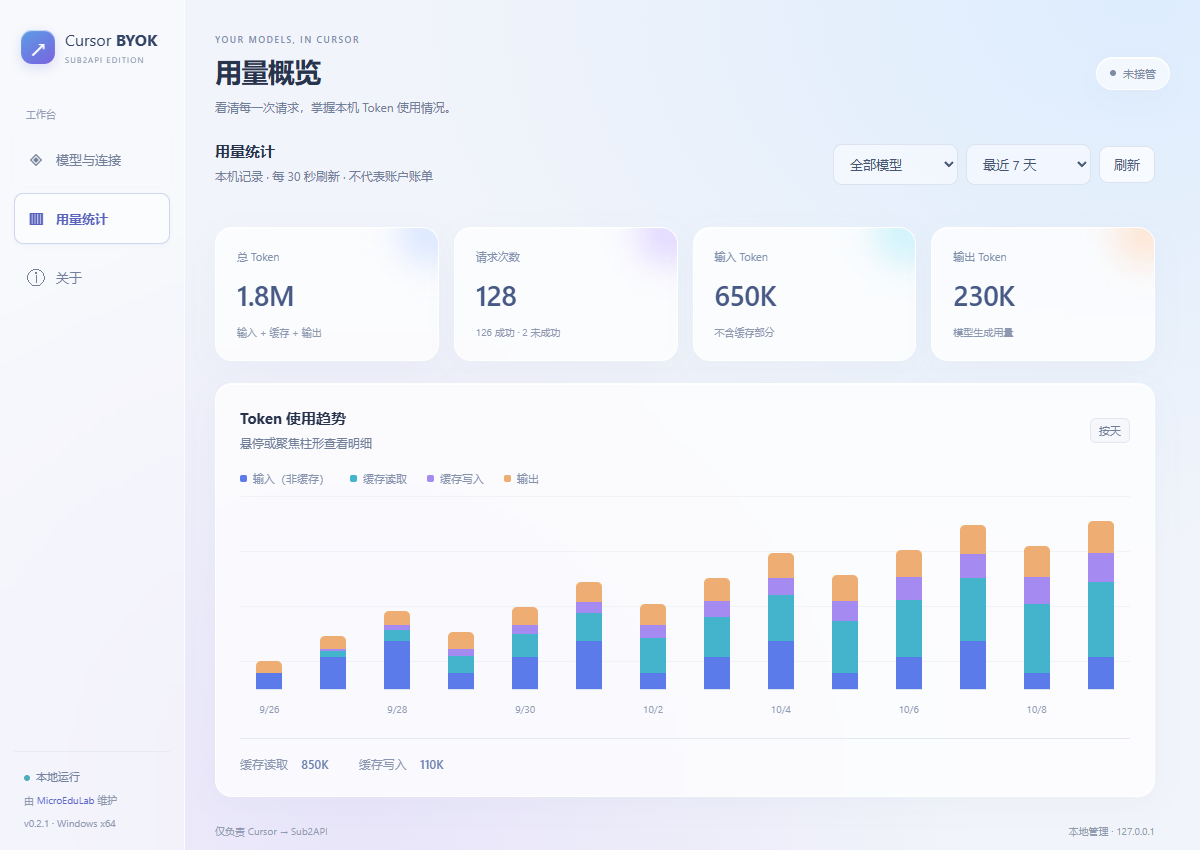
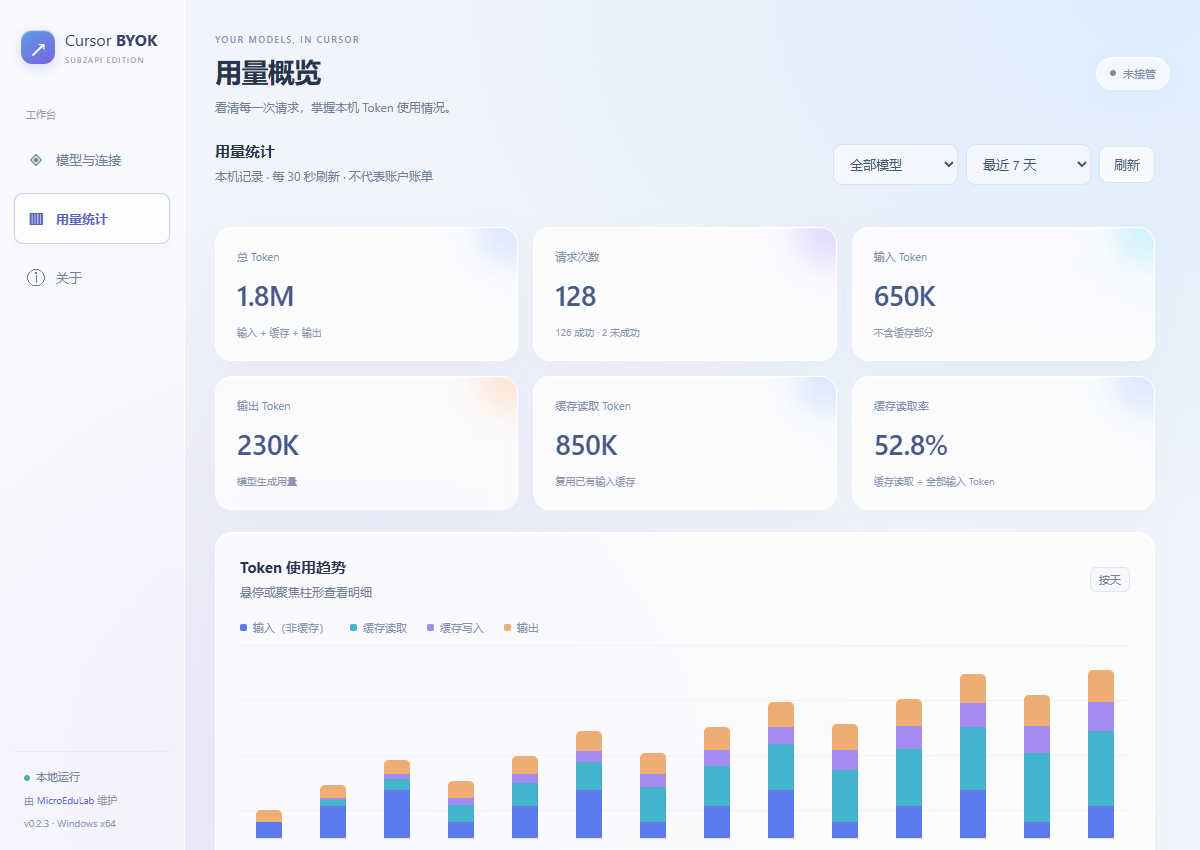
feat: add cache usage metrics and close to tray

diff --git a/apps/desktop/src/App.tsx b/apps/desktop/src/App.tsx
@@ -64,12 +64,12 @@ function Controller() {
   }); };
   const visible = models.filter(m => `${m.display_name} ${m.model_id}`.toLowerCase().includes(search.toLowerCase()));
   return <div className="app">
-    <aside className="sidebar"><div className="brand"><span className="brand-mark">↗</span><div>Cursor <strong>BYOK</strong><small>SUB2API EDITION</small></div></div><div className="nav-label">工作台</div><nav>{([["models", "◈", "模型与连接"], ["usage", "▥", "用量统计"], ["about", "ⓘ", "关于"]] as const).map(([id, icon, label]) => <button key={id} className={page === id ? "active" : ""} onClick={() => setPage(id)}><span aria-hidden="true">{icon}</span>{label}</button>)}</nav><div className="sidebar-bottom"><span className="local-dot" />本地运行<small>由 <a href="https://microedulab.com/">MicroEduLab</a> 维护</small><small>v0.2.2 · Windows x64</small></div></aside>
+    <aside className="sidebar"><div className="brand"><span className="brand-mark">↗</span><div>Cursor <strong>BYOK</strong><small>SUB2API EDITION</small></div></div><div className="nav-label">工作台</div><nav>{([["models", "◈", "模型与连接"], ["usage", "▥", "用量统计"], ["about", "ⓘ", "关于"]] as const).map(([id, icon, label]) => <button key={id} className={page === id ? "active" : ""} onClick={() => setPage(id)}><span aria-hidden="true">{icon}</span>{label}</button>)}</nav><div className="sidebar-bottom"><span className="local-dot" />本地运行<small>由 <a href="https://microedulab.com/">MicroEduLab</a> 维护</small><small>v0.2.3 · Windows x64</small></div></aside>
     <div className="workspace"><header><div><span className="eyebrow">YOUR MODELS, IN CURSOR</span><h1>{page === "models" ? "模型与连接" : page === "usage" ? "用量概览" : "关于应用"}</h1><p className="page-description">{page === "models" ? "连接你的模型，让 Cursor 保持熟悉的工作方式。" : page === "usage" ? "看清每一次请求，掌握本机 Token 使用情况。" : "本地运行，配置由你掌控。"}</p></div><span className={`status ${status?.integration ?? ""}`}><i />{status ? statusLabels[status.integration] : "正在读取"}</span></header>
     <main ref={mainPanel}>
       {error && <div className="alert dismissible error" role="alert"><span>{error}</span><button aria-label="关闭错误提示" onClick={() => setError("")}>×</button></div>}{notice && <div className="alert dismissible" role="status"><span>{notice}</span><button aria-label="关闭操作提示" onClick={() => setNotice("")}>×</button></div>}
       {status?.recovery_error && <div className="alert error">{status.recovery_error}</div>}{!!status?.warnings.length && <div className="alert">已保留你修改的设置：{status.warnings.join("、")}</div>}
-      {page === "models" && <section className={`card takeover ${status?.integration === "enabled" ? "is-active" : ""}`}><div className="takeover-copy"><span className="takeover-icon">⇄</span><div><div className="eyebrow">CONNECTION CONTROL</div><h2>Cursor 可逆接管</h2><p>{status?.restart_required ? "请先保存工作并完全退出 Cursor，再切换接管状态。" : "关闭和退出会恢复 Cursor 设置，专属证书保持安装。"}</p></div></div><div className="row-actions"><button disabled={busy} onClick={() => void perform(refresh)}>刷新状态</button>{status?.integration === "recovery_required" || status?.integration === "degraded" ? <button className="primary" disabled={busy} onClick={() => void perform(async () => { await request("harness/cursor/recover", "POST"); })}>恢复配置</button> : <button className="primary" disabled={busy || !status || (status.integration === "disabled" && (!models.length || !connection.has_api_key))} onClick={toggleTakeover}>{busy ? "正在处理…" : status?.integration === "enabled" ? "关闭并恢复" : "开启接管"}</button>}</div><div className="takeover-details"><span><i className={connection.has_api_key ? "ready" : ""} />连接{connection.has_api_key ? "已配置" : "待配置"}</span><span><i className={models.length ? "ready" : ""} />{models.length} 个模型</span><span><i className={status?.ca === "ready" ? "ready" : ""} />{status?.ca === "ready" ? "证书已就绪" : status?.certificate_consent ? "证书待安装 · 已授权" : "证书待授权"}</span></div></section>}
+      {page === "models" && <section className={`card takeover ${status?.integration === "enabled" ? "is-active" : ""}`}><div className="takeover-copy"><span className="takeover-icon">⇄</span><div><div className="eyebrow">CONNECTION CONTROL</div><h2>Cursor 可逆接管</h2><p>{status?.restart_required ? "请先保存工作并完全退出 Cursor，再切换接管状态。" : "关窗后在托盘继续运行；关闭接管或从托盘退出时恢复设置。"}</p></div></div><div className="row-actions"><button disabled={busy} onClick={() => void perform(refresh)}>刷新状态</button>{status?.integration === "recovery_required" || status?.integration === "degraded" ? <button className="primary" disabled={busy} onClick={() => void perform(async () => { await request("harness/cursor/recover", "POST"); })}>恢复配置</button> : <button className="primary" disabled={busy || !status || (status.integration === "disabled" && (!models.length || !connection.has_api_key))} onClick={toggleTakeover}>{busy ? "正在处理…" : status?.integration === "enabled" ? "关闭并恢复" : "开启接管"}</button>}</div><div className="takeover-details"><span><i className={connection.has_api_key ? "ready" : ""} />连接{connection.has_api_key ? "已配置" : "待配置"}</span><span><i className={models.length ? "ready" : ""} />{models.length} 个模型</span><span><i className={status?.ca === "ready" ? "ready" : ""} />{status?.ca === "ready" ? "证书已就绪" : status?.certificate_consent ? "证书待安装 · 已授权" : "证书待授权"}</span></div></section>}
       {page === "models" && <>
         <section className="card connection"><div className="section-heading"><div><h2>Sub2API 连接</h2><p className="hint">一个连接，共享给所有模型</p></div><div className="row-actions"><span className={`badge ${connection.has_api_key ? "connected" : ""}`}>{connection.has_api_key ? "已保存连接" : "待配置"}</span>{connection.has_api_key && <button className="text-button" disabled={locked} aria-expanded={editingConnection} onClick={() => setEditingConnection(!editingConnection)}>{editingConnection ? "收起" : "编辑连接"}</button>}</div></div>
           {(!connection.has_api_key || editingConnection) ? <form onSubmit={saveConnection}><div className="fields"><label>Base URL<input type="url" required placeholder="https://your-sub2api.example/v1" value={base} disabled={locked} onChange={e => setBase(e.target.value)} /></label><label>API Key<input type="password" autoComplete="off" spellCheck={false} placeholder={connection.has_api_key ? "已加密保存 · 留空保持原 Key" : "输入专用 API Key"} value={key} required={!connection.has_api_key} disabled={locked} onChange={e => setKey(e.target.value)} /></label></div><div className="form-footer"><span>{locked && !busy ? "接管期间配置已锁定，请先关闭并恢复后编辑。" : "Key 由当前 Windows 用户加密保存在本机。"}</span><button disabled={locked} type="submit">保存连接</button></div></form> : <div className="connection-summary"><span className="connection-url">{connection.base_url}</span><span>API Key 已加密保存</span></div>}
@@ -84,7 +84,7 @@ function Controller() {
         </section>
       </>}
       {page === "usage" && <Usage models={models} />}
-      {page === "about" && <><section className="card about"><span className="eyebrow">CURSOR → SUB2API</span><h2>Cursor Sub2API BYOK <span className="badge">v0.2.2</span></h2><p>Windows x64 便携控制器。保留 Cursor 原生登录、Agent 与工具。</p><div className="about-links"><a href="https://microedulab.com/" rel="noreferrer">MicroEduLab ↗</a><a href="https://github.com/dude1wudv/cursor-sub2api-byok" rel="noreferrer">开发仓库 ↗</a><a href="https://github.com/leookun/cursor-byok" rel="noreferrer">上游 leookun/cursor-byok ↗</a></div><p className="hint">MIT · Copyright (c) 2026 leookun<br />数据使用 Windows CurrentUser DPAPI；其他用户或机器无法解密。</p></section><section className="card"><h2>目标路径与证书</h2><dl><dt>Cursor settings</dt><dd>{status?.settings_path || "—"}</dd><dt>本地代理</dt><dd>{status?.proxy_url || "未运行"}</dd><dt>CurrentUser Root CA</dt><dd>{status?.ca || "—"}</dd><dt>CA SHA-256</dt><dd>{status?.ca_sha256 || "首次开启接管时生成"}</dd></dl><div className="row-actions"><button disabled={busy || status?.integration !== "disabled"} onClick={() =>  { enableAfterSetup.current = false; setCertificateSetup(true); }}>查看使用说明 / 安装证书</button><button className="danger" disabled={busy || !status?.certificate_consent} onClick={() => void perform(async () => { await request("harness/cursor/ca/uninstall", "POST"); setNotice("专属证书已卸载，Cursor 设置已恢复。可退出后移除便携程序；模型配置和统计仍保留在数据目录。"); })}>卸载证书并恢复</button></div><p className="hint">日常关闭和退出保留证书；卸载时按同意记录精确清理。崩溃后重新打开程序恢复，或使用同一路径参数运行 --restore。</p></section></>}
+      {page === "about" && <><section className="card about"><span className="eyebrow">CURSOR → SUB2API</span><h2>Cursor Sub2API BYOK <span className="badge">v0.2.3</span></h2><p>Windows x64 便携控制器。保留 Cursor 原生登录、Agent 与工具。</p><div className="about-links"><a href="https://microedulab.com/" rel="noreferrer">MicroEduLab ↗</a><a href="https://github.com/dude1wudv/cursor-sub2api-byok" rel="noreferrer">开发仓库 ↗</a><a href="https://github.com/leookun/cursor-byok" rel="noreferrer">上游 leookun/cursor-byok ↗</a></div><p className="hint">MIT · Copyright (c) 2026 leookun<br />数据使用 Windows CurrentUser DPAPI；其他用户或机器无法解密。</p></section><section className="card"><h2>目标路径与证书</h2><dl><dt>Cursor settings</dt><dd>{status?.settings_path || "—"}</dd><dt>本地代理</dt><dd>{status?.proxy_url || "未运行"}</dd><dt>CurrentUser Root CA</dt><dd>{status?.ca || "—"}</dd><dt>CA SHA-256</dt><dd>{status?.ca_sha256 || "首次开启接管时生成"}</dd></dl><div className="row-actions"><button disabled={busy || status?.integration !== "disabled"} onClick={() =>  { enableAfterSetup.current = false; setCertificateSetup(true); }}>查看使用说明 / 安装证书</button><button className="danger" disabled={busy || !status?.certificate_consent} onClick={() => void perform(async () => { await request("harness/cursor/ca/uninstall", "POST"); setNotice("专属证书已卸载，Cursor 设置已恢复。可退出后移除便携程序；模型配置和统计仍保留在数据目录。"); })}>卸载证书并恢复</button></div><p className="hint">关窗后继续接管，托盘“退出并恢复”会恢复设置并保留证书；卸载时按同意记录精确清理。崩溃后重新打开程序恢复，或使用同一路径参数运行 --restore。</p></section></>}
       <footer><span>仅负责 Cursor → Sub2API</span><span>本地管理 · 127.0.0.1</span></footer>
     </main></div>
     {certificateSetup && <CertificateSetup cancel={() => { enableAfterSetup.current = false; setCertificateSetup(false); }} done={async () => {

diff --git a/apps/desktop/src/Usage.tsx b/apps/desktop/src/Usage.tsx
@@ -29,6 +29,8 @@ export function Usage({ models }: { models: Model[] }) {
     return () => { controller.abort(); window.clearInterval(timer); };
   }, [refresh]);
   const m = overview?.metrics;
+  const totalInput = m ? m.input_tokens + m.cache_read_tokens + m.cache_write_tokens : 0;
+  const cacheReadRate = m && totalInput > 0 ? `${(m.cache_read_tokens / totalInput * 100).toFixed(1)}%` : "—";
   const data = overview?.token_usage_series ?? [];
   const total = (b: UsageBucket) => series.reduce((n, [key]) => n + b[key], 0);
   const max = Math.max(1, ...data.map(total));
@@ -37,7 +39,8 @@ export function Usage({ models }: { models: Model[] }) {
     {error && <div className="alert error" role="alert">{error}</div>}
     <div className="metric-grid">{[
       ["总 Token", m?.token_usage, "输入 + 缓存 + 输出"], ["请求次数", m?.llm_calls, `${m?.successful_calls ?? 0} 成功 · ${m?.failed_calls ?? 0} 未成功`], ["输入 Token", m?.input_tokens, "不含缓存部分"], ["输出 Token", m?.output_tokens, "模型生成用量"],
-    ].map(([label, value, note]) => <div className="metric card" key={String(label)}><span>{label}</span><strong title={typeof value === "number" ? value.toLocaleString() : ""}>{typeof value === "number" ? number(value) : "—"}</strong><small>{note}</small></div>)}</div>
+      ["缓存读取 Token", m?.cache_read_tokens, "复用已有输入缓存"], ["缓存读取率", cacheReadRate, "缓存读取 ÷ 全部输入 Token"],
+    ].map(([label, value, note]) => <div className="metric card" key={String(label)}><span>{label}</span><strong title={typeof value === "number" ? value.toLocaleString() : ""}>{typeof value === "number" ? number(value) : value ?? "—"}</strong><small>{note}</small></div>)}</div>
     <section className="card chart-card"><div className="section-heading"><div><h2>Token 使用趋势</h2><p className="hint">悬停或聚焦柱形查看明细</p></div><span className="badge">{overview?.token_usage_granularity === "day" ? "按天" : "按小时"}</span></div>
       <div className="legend">{series.map(([, label, color]) => <span key={label}><i style={{ background: color }} />{label}</span>)}</div>
       <div className="chart" aria-label="Token 用量柱形图">{data.map((b, index) => {
@@ -47,7 +50,7 @@ export function Usage({ models }: { models: Model[] }) {
         return <div className="chart-column" key={b.bucket_start_ms} tabIndex={0} aria-label={detail} title={detail}><div className="bar-track"><div className="bar-stack" style={{ height: `${total(b) / max * 100}%` }}>{series.map(([key, , color]) => b[key] > 0 && <i key={key} style={{ background: color, flexGrow: b[key] }} />)}</div></div><span>{index % Math.max(1, Math.ceil(data.length / 12)) === 0 ? caption : ""}</span></div>;
       })}</div>
       {!loading && data.every(b => total(b) === 0) && <p className="chart-empty">这个时间范围暂无 Token 用量，开始使用后将在这里显示。</p>}
-      <div className="cache-summary"><span>缓存读取 <strong>{m ? number(m.cache_read_tokens) : "—"}</strong></span><span>缓存写入 <strong>{m ? number(m.cache_write_tokens) : "—"}</strong></span></div>
+      <div className="cache-summary"><span>缓存写入 <strong>{m ? number(m.cache_write_tokens) : "—"}</strong></span><span>读取率按当前筛选汇总计算，全部输入包含缓存读取与写入，不含输出。</span></div>
     </section>
   </>;
 }

diff --git a/apps/desktop/src/controller.scss b/apps/desktop/src/controller.scss
@@ -123,7 +123,7 @@ input[type=checkbox] { width: 14px; height: 14px; flex-shrink: 0; margin: 0; acc
 .discovery-row label { flex-direction: row; align-items: center; overflow-wrap: anywhere; }
 .discovery-row select { width: 175px; flex-shrink: 0; font-size: 11px; }
 .discovery-row small { display: block; margin-top: 3px; color: #8494c0; }
-.metric-grid { display: grid; grid-template-columns: repeat(4, minmax(0, 1fr)); gap: 15px; }
+.metric-grid { display: grid; grid-template-columns: repeat(3, minmax(0, 1fr)); gap: 15px; }
 .metric { position: relative; display: flex; flex-direction: column; gap: 12px; padding: 21px; overflow: hidden; }
 .metric::after { content: ""; position: absolute; width: 65px; height: 65px; top: -28px; right: -25px; border-radius: 50%; background: #dbe6ff; filter: blur(16px); }
 .metric:nth-child(2)::after { background: #e2d9ff; }

diff --git a/apps/desktop/src-tauri/src/desktop.rs b/apps/desktop/src-tauri/src/desktop.rs
@@ -191,7 +191,9 @@ pub fn run() -> ExitCode {
         .on_window_event(|window, event| {
             if let WindowEvent::CloseRequested { api, .. } = event {
                 api.prevent_close();
-                window.app_handle().exit(0);
+                if let Err(error) = window.hide() {
+                    tracing::warn!(%error, "could not hide controller window to tray");
+                }
             }
         })
         .build(tauri::generate_context!());

diff --git a/apps/desktop/src-tauri/src/tray.rs b/apps/desktop/src-tauri/src/tray.rs
@@ -21,7 +21,7 @@ pub fn create(app: &mut App) -> tauri::Result<()> {
         None::<&str>,
     )?;
     let separator = PredefinedMenuItem::separator(app)?;
-    let quit = MenuItem::with_id(app, QUIT_MENU_ID, "退出", true, None::<&str>)?;
+    let quit = MenuItem::with_id(app, QUIT_MENU_ID, "退出并恢复", true, None::<&str>)?;
     let menu = Menu::with_items(app, &[&open, &separator, &quit])?;
 
     TrayIconBuilder::with_id("main")

diff --git a/README.md b/README.md
@@ -31,7 +31,7 @@ Windows x64 便携控制器，只负责 Cursor → Sub2API。由 **[MicroEduLab]
 2. 完全退出 Cursor，打开 `Cursor-Sub2API-BYOK.exe`，阅读并勾选首次使用说明，安装当前用户专属证书。
 3. 保存 Sub2API HTTPS 根地址或 `/v1` 与专用 API Key，点击“获取模型列表”勾选添加。按模型名称预选 Responses/Claude Messages，添加前可调整协议。编辑模型卡片设置可选强度与默认值；只勾选上游支持的档位。
 4. 完全退出 Cursor，点击“开启接管”，再手动打开 Cursor 并使用原生登录。若尚未授权，完成首次说明与安装后会继续开启；已有授权不会重复弹出应用协议。
-5. 完全退出 Cursor 后点击“关闭并恢复”，或关闭本程序窗口。窗口 × 会恢复后退出；Cursor 仍运行或恢复失败时阻止退出。
+5. 窗口 × 会隐藏到系统托盘，继续保持接管；点击托盘图标可重新打开控制台。完全退出 Cursor 后点击“关闭并恢复”，或在托盘菜单选择“退出并恢复”。显式退出时，Cursor 仍运行或恢复失败会阻止退出并重新显示窗口。
 
 本程序不修改 Cursor 安装文件、hosts、系统代理或账号数据库，不伪造会员资格。官方账号/计费流量继续转发到 Cursor。原生工具、MCP、Skills、检查点、取消和 compaction 仍使用上游实现。
 
@@ -53,7 +53,7 @@ Windows x64 便携控制器，只负责 Cursor → Sub2API。由 **[MicroEduLab]
 
 `--cursor-user-data-dir` 指向用户数据根，实际操作其 `User\settings.json`。路径须为绝对路径且不能经过 reparse point；GUI 与恢复命令全局单实例互斥。
 
-首次同意使用说明后生成专属 CA，只安装到 CurrentUser Root。Windows 首次安装和最终删除时可能要求确认；核对名称为 `Cursor Sub2API BYOK Local CA` 后点击“是”。日常关闭、窗口退出、崩溃恢复与 `--restore` 恢复 settings 并停止代理，**保留已同意持续安装的证书**，因此无需反复确认。v0.1.0 遗留事务仍按当时记录恢复临时信任。卸载前请进入“关于 → 卸载证书并恢复”，成功后再删除便携程序；模型配置和统计保留。证书按 DPAPI 同意记录的完整 DER 精确删除，失败保留记录供重试；不要提前删除数据目录。原 JSONC 的 BOM、CRLF、注释及无关字段保留。用户在接管期间改成第三值的管理项保留并提示，无法确认归属时保留 journal 并进入 `recovery_required`。
+首次同意使用说明后生成专属 CA，只安装到 CurrentUser Root。Windows 首次安装和最终删除时可能要求确认；核对名称为 `Cursor Sub2API BYOK Local CA` 后点击“是”。关闭接管、托盘退出、崩溃恢复与 `--restore` 恢复 settings 并停止代理，**保留已同意持续安装的证书**，因此无需反复确认。v0.1.0 遗留事务仍按当时记录恢复临时信任。卸载前请进入“关于 → 卸载证书并恢复”，成功后再删除便携程序；模型配置和统计保留。证书按 DPAPI 同意记录的完整 DER 精确删除，失败保留记录供重试；不要提前删除数据目录。原 JSONC 的 BOM、CRLF、注释及无关字段保留。用户在接管期间改成第三值的管理项保留并提示，无法确认归属时保留 journal 并进入 `recovery_required`。
 
 崩溃后使用相同参数重新启动或执行 `--restore`。恢复命令不启动代理或网络客户端，成功返回 0，冲突返回非零。不要删除 `takeover-journal.dpapi` 或复制其他用户的数据目录来绕过恢复。
 
@@ -90,6 +90,10 @@ scripts/                 # 便携打包、依赖许可及隔离原生验证
 
 MIT，原版权 `Copyright (c) 2026 leookun` 保持不变。MicroEduLab 维护本 fork；第三方依赖说明随发行包提供。[MicroEduLab 网站](https://microedulab.com/)
 
+
+## v0.2.3 缓存统计与托盘
+
+用量页新增缓存读取 Token、缓存读取率卡片，随时间与模型筛选更新。读取率 = 缓存读取 /（非缓存输入 + 缓存读取 + 缓存写入），无输入时显示“—”。窗口 × 隐藏到托盘并保持代理运行；完全退出请用托盘“退出并恢复”。
 
 ## v0.2.2 流式连接修复
 

diff --git a/docs/VALIDATION.md b/docs/VALIDATION.md
@@ -1,5 +1,12 @@
 # 验证范围
 
+## v0.2.3 — 2026-10-09
+
+- pnpm typecheck、typecheck:node、Vite 与 Windows Tauri no-bundle 构建通过；安装 EXE 与便携包 SHA-256 一致，桌面快捷方式沿用。
+- 合成浏览器回归通过：6 张用量卡片、缓存读取 850K、读取率 52.8%、无输入显示“—”、筛选模型后无缓存显示 0.0%；既有授权、模型编辑与批量发现流程通过。README 统计截图为合成数据。
+- 已安装 EXE 的实际窗口 × 验证：窗口从可见列表消失，进程和本地 HTTP 服务仍运行，settings 接管与 journal 保留；原证书同意记录不变。托盘重开和显式退出需人工操作复核。
+- 本次未重跑完整 CA 安装/删除和崩溃恢复套件；未发送真实上游模型请求，真实 Cursor/GPT/Claude/MCP 闭环不在本次验收结果内。
+
 ## v0.2.2 — 2026-10-09
 
 - Rust 238 项用例最终通过：首次运行 237 项通过，控制器恢复用例因本机 Cursor 仍运行而被安全保护拦截；退出 Cursor 后该目标的 3 项用例全部通过。未跳过或弱化断言。

diff --git a/CHANGELOG.md b/CHANGELOG.md
@@ -1,5 +1,11 @@
 # Changelog
 
+## 0.2.3 — 2026-10-09
+
+- 用量统计新增缓存读取 Token 与缓存读取率卡片，按当前模型和时间范围汇总；分母包含全部输入，不含输出，无输入时显示“—”。
+- 窗口 × 隐藏到系统托盘，继续保持接管。点击托盘可重新打开；“退出并恢复”保留 Cursor 进程检测与恢复失败保护。
+- 包含 v0.2.2 的流式心跳、断线宽限期和过期请求处理修复。
+
 ## 0.2.2 — 2026-10-09
 
 - 静默思考期间每 5 秒发送 Cursor 协议心跳，不伪造文本或污染 replay 历史。
